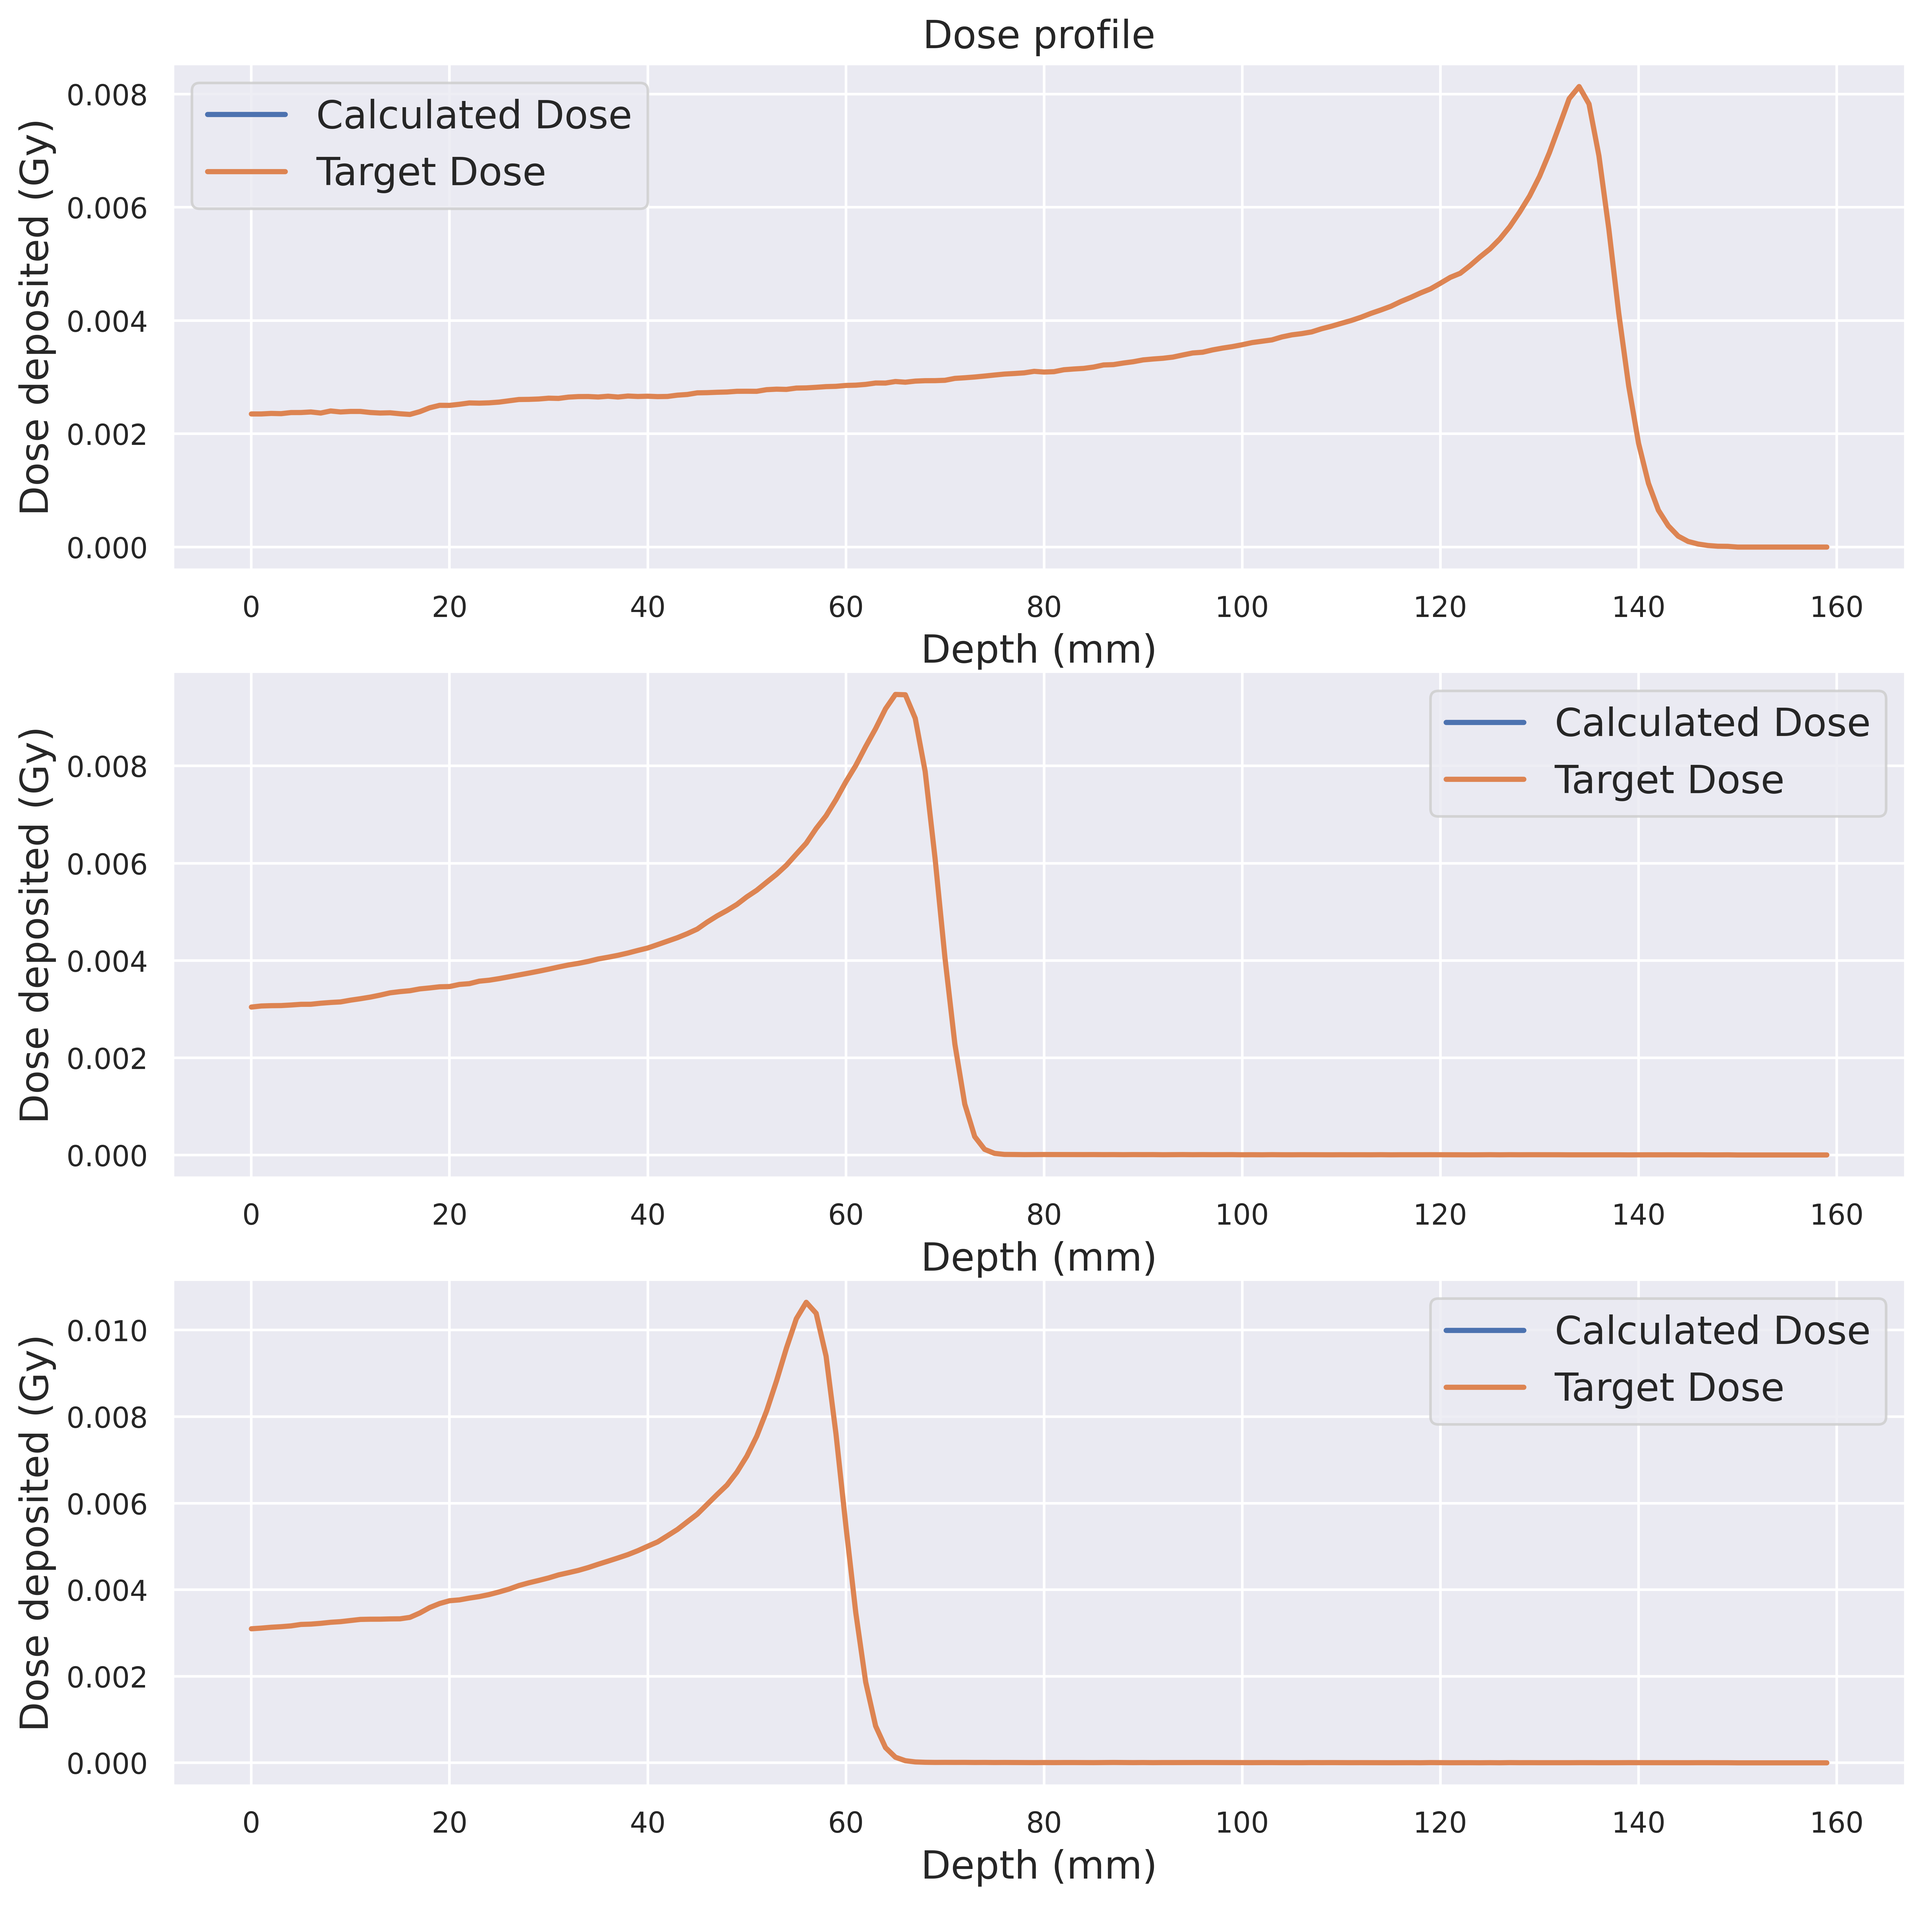
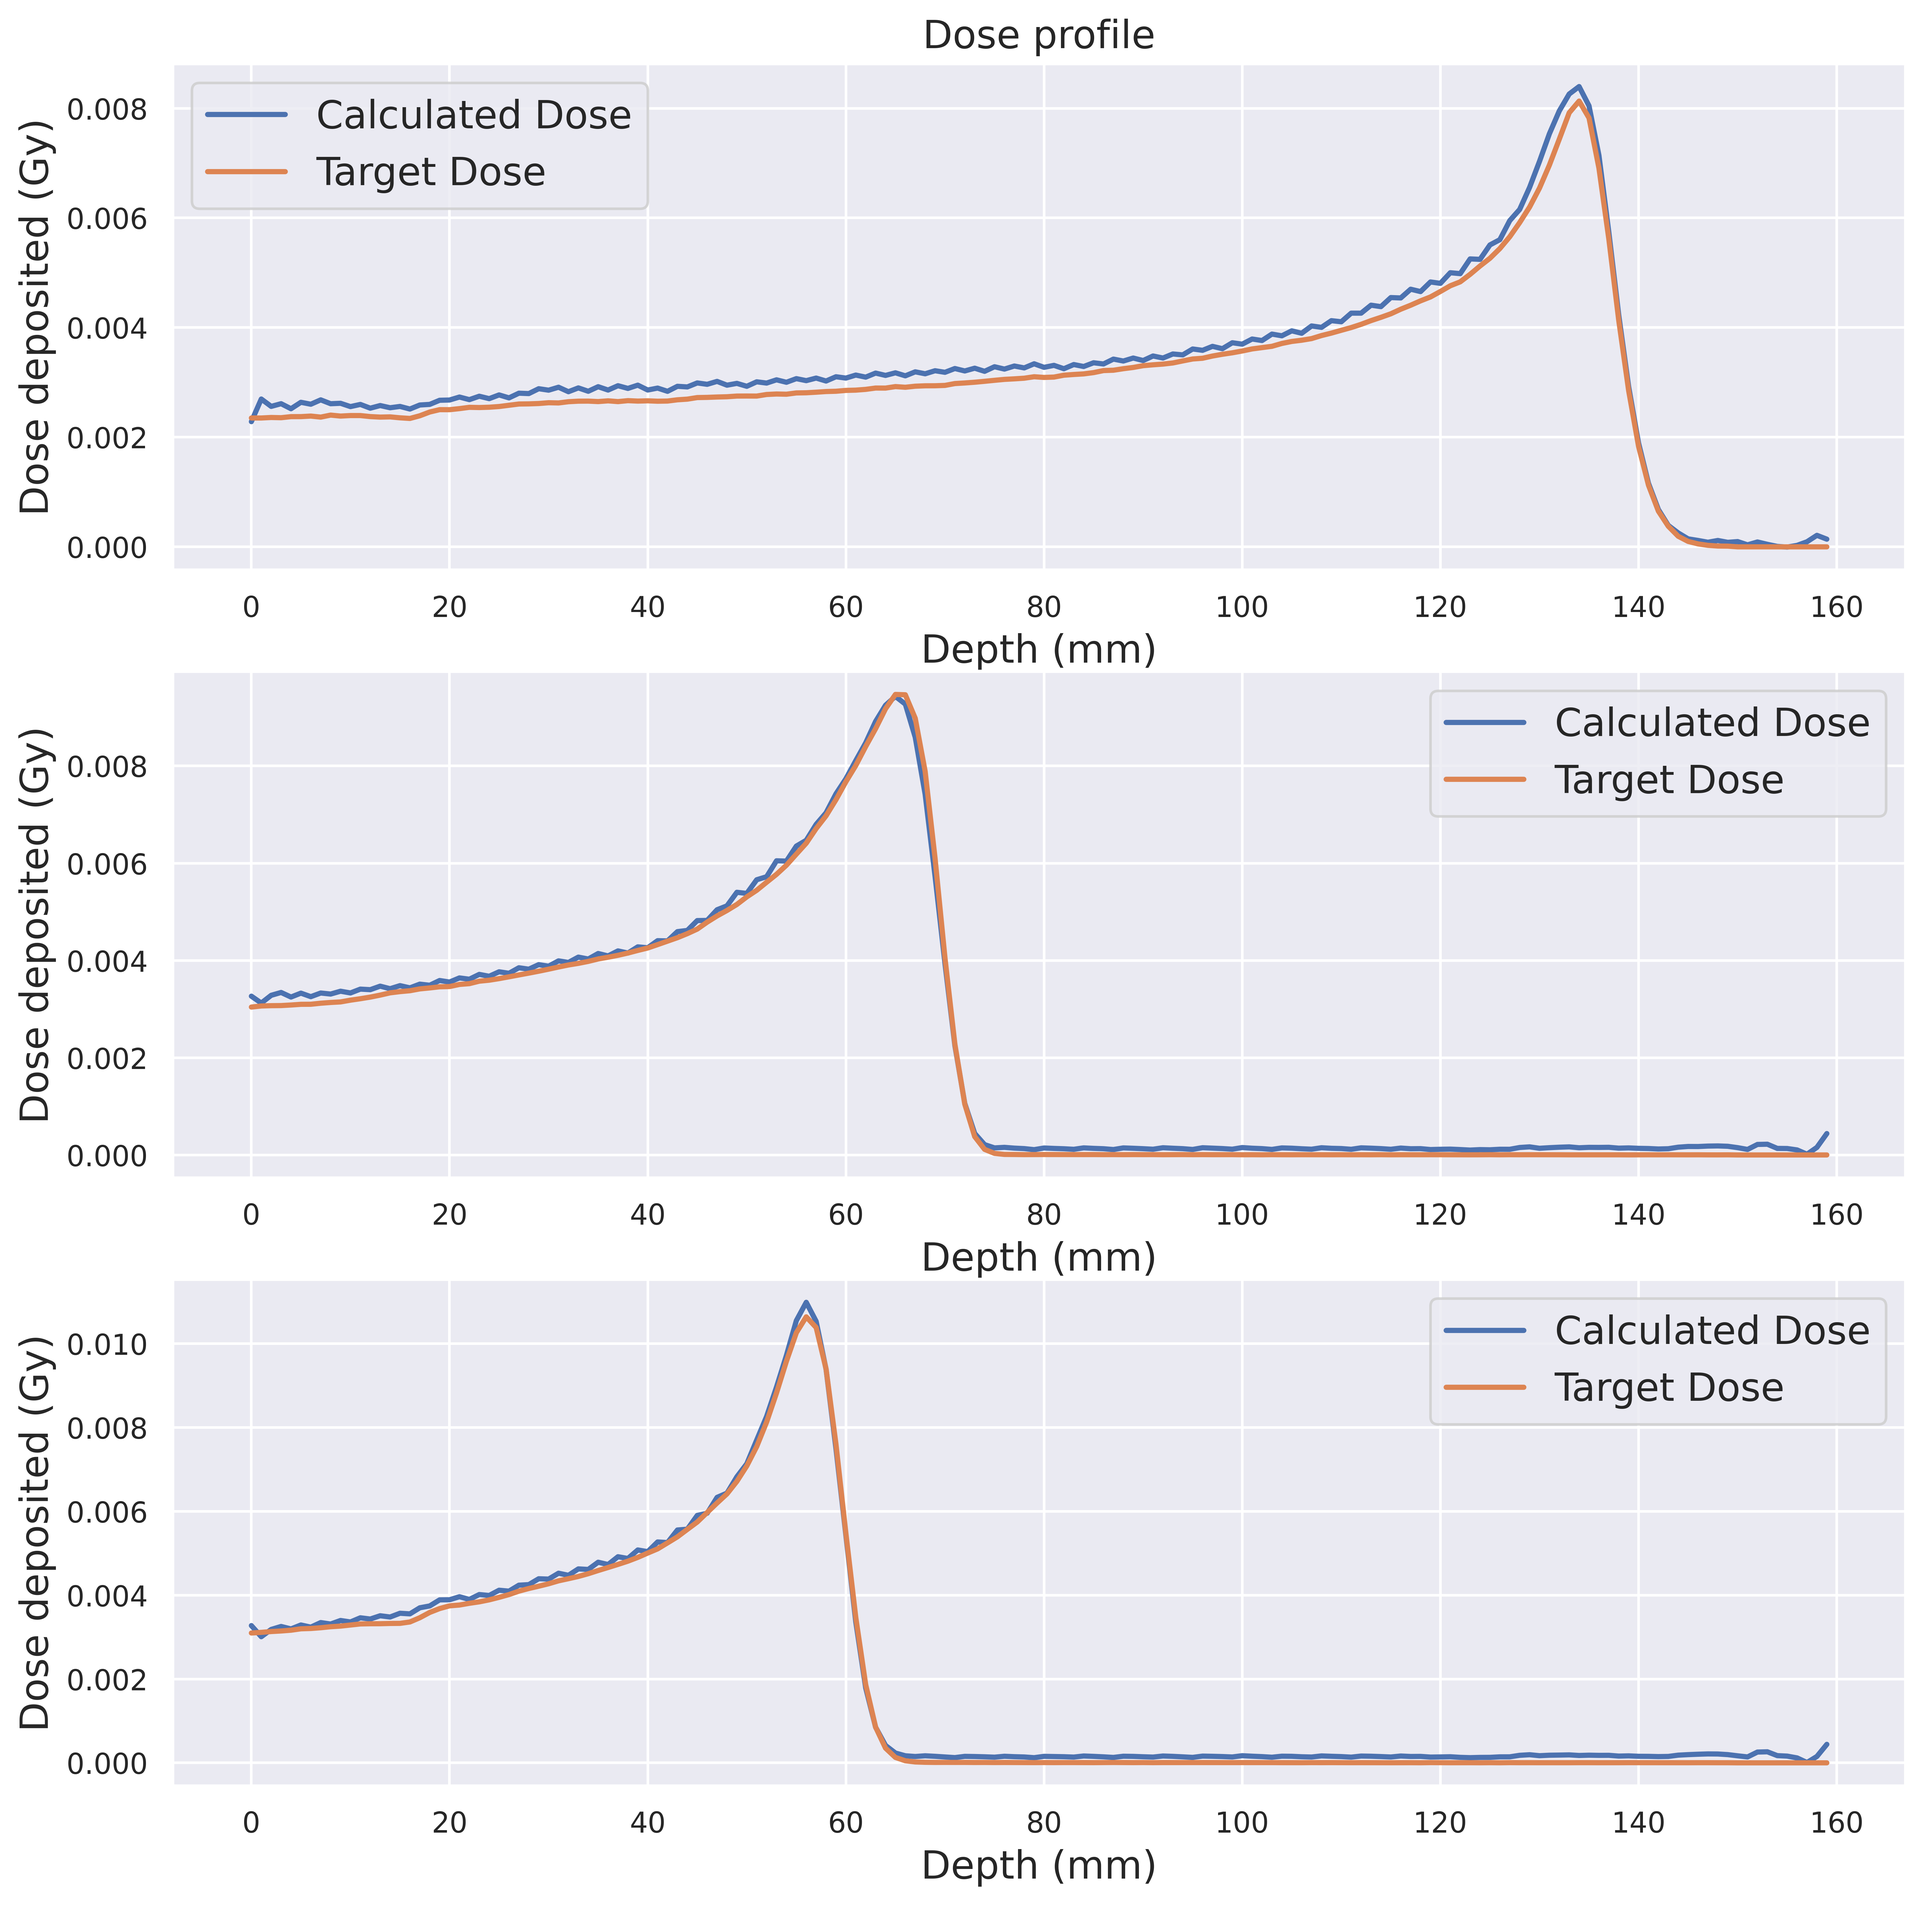
alpha changes

diff --git a/deep-learning-dose-activity-dictionary/test_model.py b/deep-learning-dose-activity-dictionary/test_model.py
@@ -2,6 +2,8 @@ import torch
 import torch.nn as nn
 from tqdm import tqdm
 from utils import RE_loss, range_loss, post_BP_loss, gamma_index
+import pymedphys
+import numpy as np
 
 def test(trained_model, test_loader, device, results_dir='.',
          mean_output=0, std_output=1):
@@ -13,8 +15,9 @@ def test(trained_model, test_loader, device, results_dir='.',
     R50_list = []
     R10_list = []
     gamma_list = []
-    post_BP_loss_list = []
-    threshold = 0.1
+    gamma_pymed_list = []
+    threshold = 0.2
+    
     with torch.no_grad():
         for batch_input, batch_target, _ in tqdm(test_loader):
             batch_input = batch_input.to(device)
@@ -27,22 +30,40 @@ def test(trained_model, test_loader, device, results_dir='.',
             R50_list.append(range_loss(batch_output, batch_target, 0.5, mean_output=mean_output, std_output=std_output))
             R10_list.append(range_loss(batch_output, batch_target, 0.1, mean_output=mean_output, std_output=std_output))
             gamma_list.append(gamma_index(batch_output, batch_target, tolerance=0.03, beta=5, mean_output=mean_output, std_output=std_output, threshold=threshold))
-            post_BP_loss_list.append(post_BP_loss(batch_output, batch_target, mean_output=mean_output, std_output=std_output))
+            
+            # for pymed gamma calculation:
+            for idx in range(batch_input.shape[0]):
+                output = batch_output[idx].unsqueeze(0)
+                target = batch_target[idx].unsqueeze(0)
+                output = mean_output + output * std_output  # undoing normalization
+                target = mean_output + target * std_output
+                axes_reference = (np.arange(output.shape[2]), np.arange(output.shape[3]), np.arange(output.shape[4]))    
+                gamma = pymedphys.gamma(
+                    axes_reference, target.squeeze(0).squeeze(0).cpu().detach().numpy(), 
+                    axes_reference, output.squeeze(0).squeeze(0).cpu().detach().numpy(),
+                    dose_percent_threshold = 3,
+                    distance_mm_threshold = 1, 
+                    lower_percent_dose_cutoff=threshold*100)
+                valid_gamma = gamma[~np.isnan(gamma)]
+                pass_ratio = np.sum(valid_gamma <= 1) / len(valid_gamma)
+                gamma_pymed_list.append(pass_ratio)
+           
+            
     RE_loss_list = torch.cat(RE_loss_list)
     R90_list = torch.cat(R90_list)
     R50_list = torch.cat(R50_list)
     R10_list = torch.cat(R10_list)
     l2_loss_list = torch.tensor(l2_loss_list)
     gamma_list = torch.tensor(gamma_list)
-    post_BP_loss_list = torch.tensor(post_BP_loss_list)
-
+    gamma_pymed_list = torch.tensor(gamma_pymed_list)
+    
     text_results = f"Relative Error: {torch.mean(RE_loss_list)} +- {torch.std(RE_loss_list)}\n" \
            f"R90: {torch.mean(R90_list)} +- {torch.std(R90_list)}\n" \
            f"R50: {torch.mean(R50_list)} +- {torch.std(R50_list)}\n" \
            f"R10: {torch.mean(R10_list)} +- {torch.std(R10_list)}\n" \
            f"L2 Loss: {torch.mean(l2_loss_list)} +- {torch.std(l2_loss_list)}\n" \
-           f"Post BP Loss: {torch.mean(post_BP_loss_list)} +- {torch.std(post_BP_loss_list)}\n" \
-           f"Gamma index: {torch.mean(gamma_list)} +- {torch.std(gamma_list)}"
+           f"Gamma index: {torch.mean(gamma_list)} +- {torch.std(gamma_list)}\n" \
+           f"Gamma index (good one - pymed one): {torch.mean(gamma_pymed_list)} +- {torch.std(gamma_pymed_list)}"
     print(text_results)
 
     # Save to file

diff --git a/deep-learning-dose-activity-dictionary/train_model.py b/deep-learning-dose-activity-dictionary/train_model.py
@@ -16,7 +16,7 @@ def train(model, train_loader, val_loader, epochs=10, model_dir='.', timing_dir 
     l2_loss = nn.MSELoss()
     beta = 2e-2
     threshold = 0.2
-    alpha = 1 / 1000  # ratio between the losses
+    alpha = 1000 / 1000  # ratio between the losses
     for epoch in range(epochs):
         logs = {}
         train_loss = 0.0
@@ -40,38 +40,13 @@ def train(model, train_loader, val_loader, epochs=10, model_dir='.', timing_dir 
             with open(timing_dir, "w") as file:
                 file.write(f'epoch {epoch} batch {batch}\n')
                 
-            ###
-            if epoch == 3:
-                import pymedphys
-                import numpy as np
-                output = batch_output[0].unsqueeze(0)
-                target = batch_target[0].unsqueeze(0)
-                # manual
-                gamma_manual = gamma_index(output, target, beta=10, mean_output=mean_output, std_output=std_output, threshold=threshold)
-                #pymedphys
-                output = mean_output + output * std_output  # undoing normalization
-                target = mean_output + target * std_output
-                axes_reference = (np.arange(output.shape[2]), np.arange(output.shape[3]), np.arange(output.shape[4]))    
-                gamma = pymedphys.gamma(
-                    axes_reference, target.squeeze(0).squeeze(0).cpu().detach().numpy(), 
-                    axes_reference, output.squeeze(0).squeeze(0).cpu().detach().numpy(),
-                    dose_percent_threshold = 3,
-                    distance_mm_threshold = 1, 
-                    lower_percent_dose_cutoff=threshold*100)
-                valid_gamma = gamma[~np.isnan(gamma)]
-
-                pass_ratio = np.sum(valid_gamma <= 1) / len(valid_gamma)
-                print("manual ", gamma_manual.item())
-                print("pymedphys ", pass_ratio) 
-            ###
-                
         # Validation loop
         with torch.no_grad():
             for batch_input, batch_target, _ in tqdm(val_loader):
                 batch_input = batch_input.to(device)
                 batch_target = batch_target.to(device)
                 batch_output = model(batch_input)
-                loss = 1000 * l2_loss(batch_output, batch_target) + (1 - gamma_index(batch_output, batch_target, beta=beta, mean_output=mean_output, std_output=std_output, threshold=threshold))
+                loss = (1-alpha) * l2_loss(batch_output, batch_target) + alpha * (1 - gamma_index(batch_output, batch_target, beta=beta, mean_output=mean_output, std_output=std_output, threshold=threshold))
                 val_loss += loss.item()
 
         # Calculate average losses (to make it independent of batch size)

diff --git a/deep-learning-dose-activity-dictionary/dad-nn.py b/deep-learning-dose-activity-dictionary/dad-nn.py
@@ -19,8 +19,7 @@ import numpy as np
 from torch.utils.data import DataLoader
 from torchvision.transforms import Compose, Normalize
 device = torch.device("cuda" if torch.cuda.is_available() else "cpu")
-print(device) ###
-print(torch.cuda.get_device_name(torch.cuda.current_device()))###
+print(device, " : ", torch.cuda.get_device_name(torch.cuda.current_device()))
 
 # Creating the dataset
 input_dir = "data/dataset_1/input"

diff --git a/deep-learning-dose-activity-dictionary/utils.py b/deep-learning-dose-activity-dictionary/utils.py
@@ -413,8 +413,9 @@ def gamma_index(output, target, tolerance=0.03, beta=5, mean_output=0, std_outpu
     gamma = torch.amin(diff, dim=0) / tolerance  # minimum among all neighbours, as in the gamma index function
     
     gamma_index_batch = torch.sum(sigmoid((1 - gamma), beta)) / num_voxels_above_threshold
-
+    
     return gamma_index_batch
+
 
 def sigmoid(x, beta):
     return 1 / (1 + torch.exp(-beta * x))
